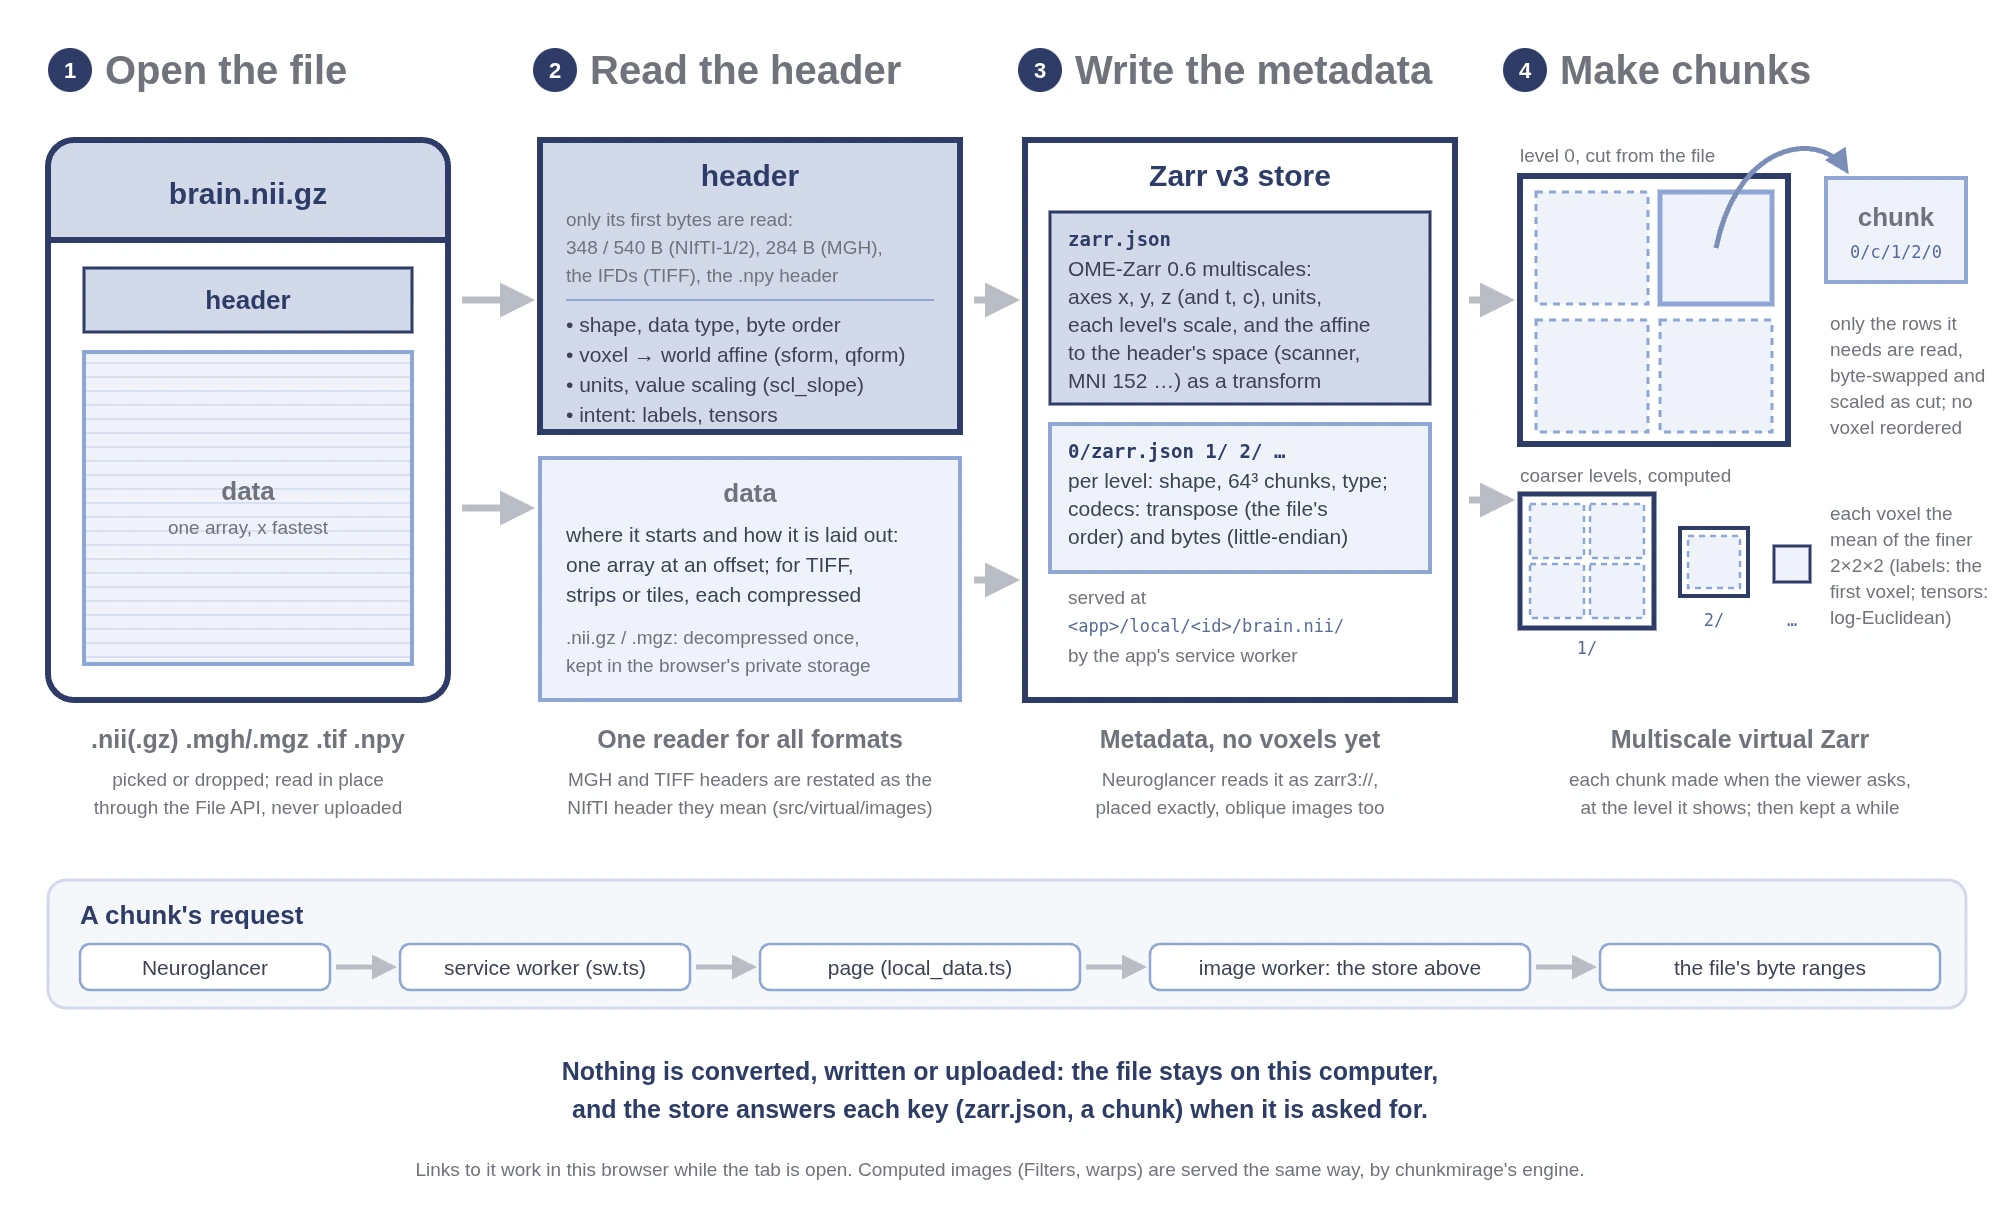
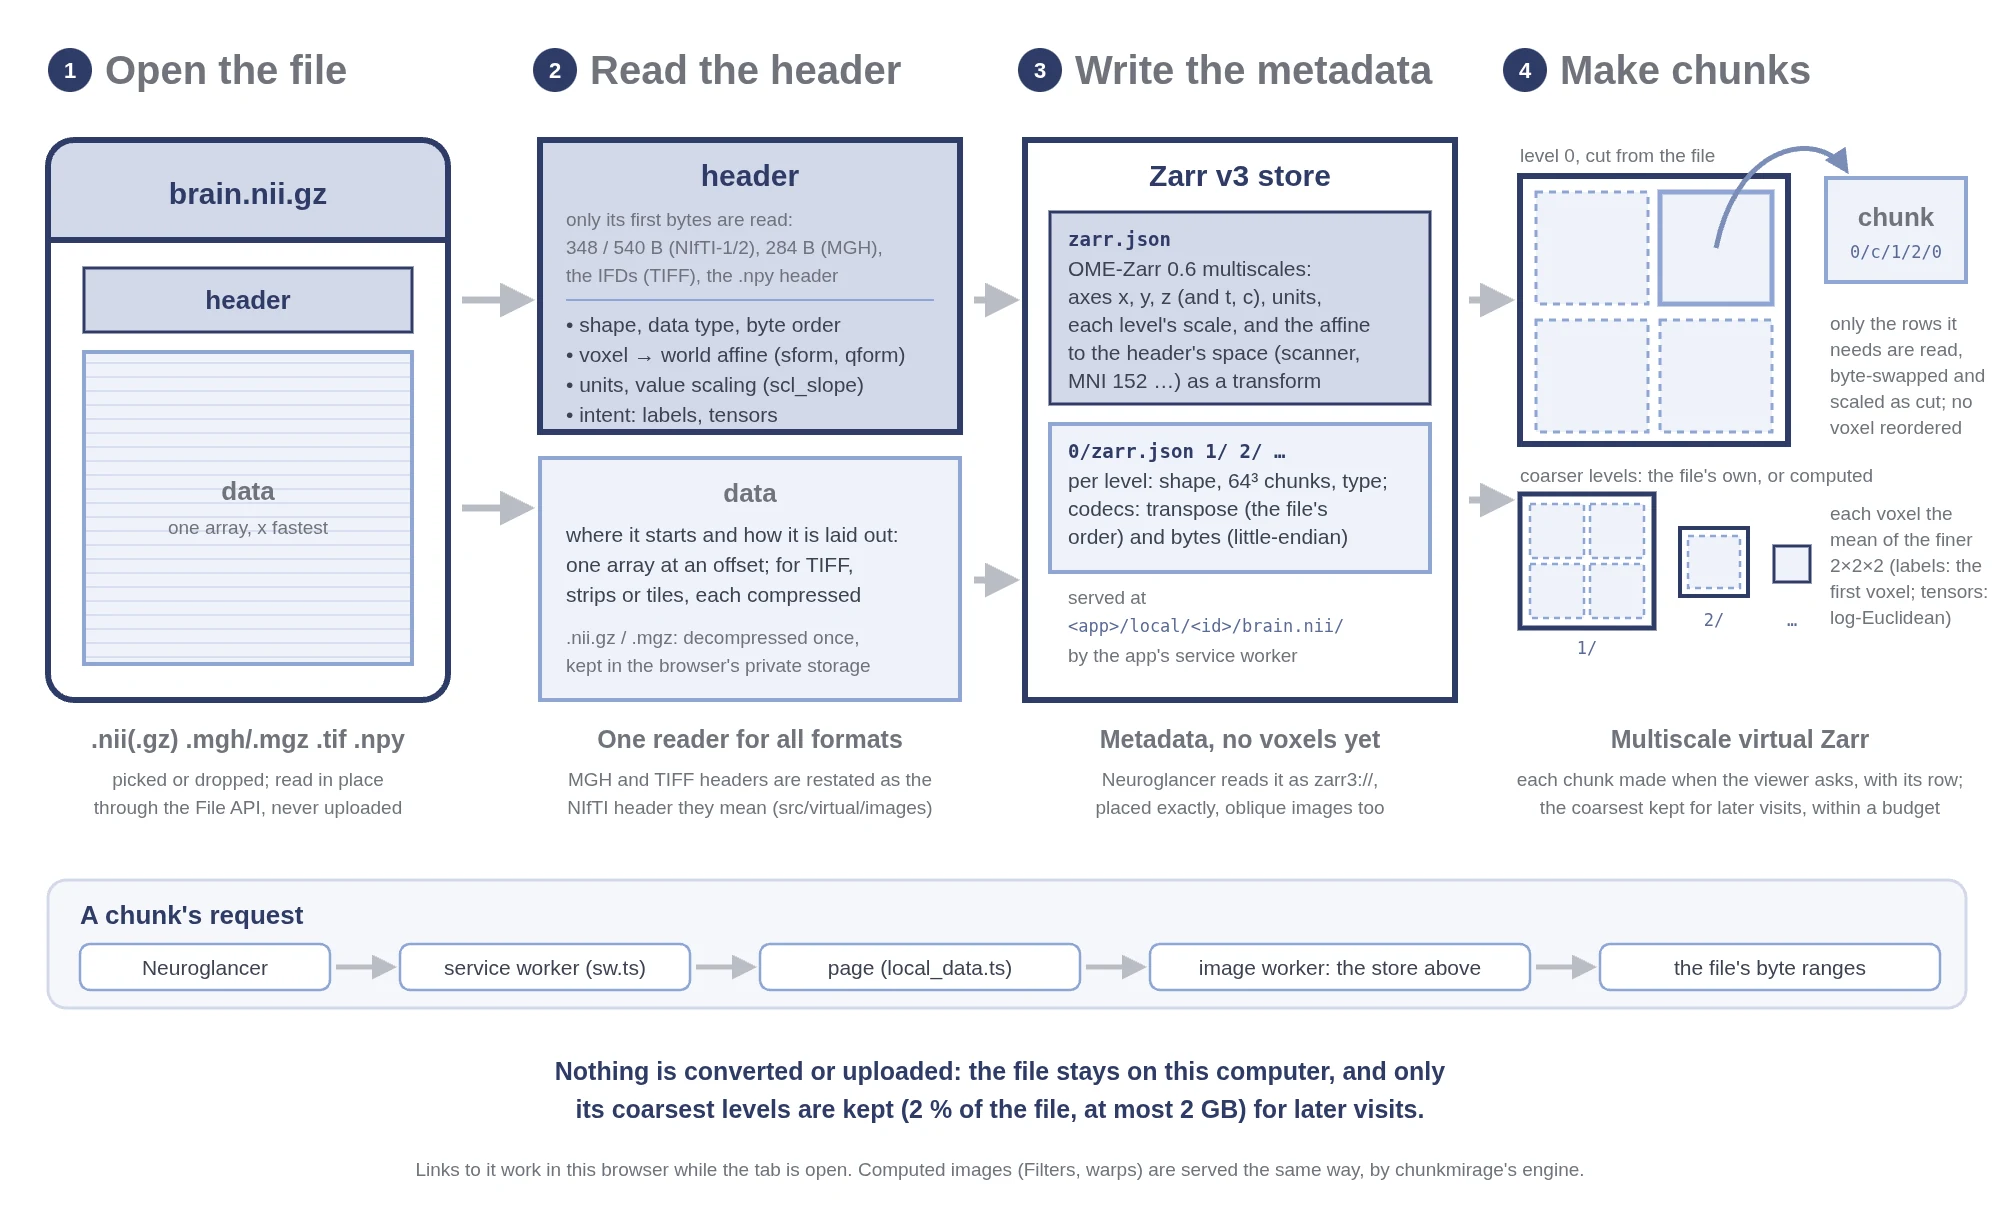
Docs: large images' overviews (slabs, the budgeted cache, the build, a TIFF's own pyramid, one-pass export) and how the virtual store compares with tifffile, bioformats2raw, ngff-zarr, ome-zarr-py, kerchunk, VirtualiZarr, refkv, chunkmirage, Neuroglancer's LocalVolume and nibabel; the figure says wh

diff --git a/src/virtual/README.md b/src/virtual/README.md
@@ -9,7 +9,7 @@ to the page, and a worker here answers it from the file.
 | Folder / file | What |
 |---|---|
 | `local_data.ts` | Local files and folders: picking, remembering, the URLs under `<app>/local/<id>/`, answering the service worker, files made in the page (`openFile`, derived files) |
-| `images/` | Images as OME-Zarr 0.6: NIfTI and Analyze (`nifti.ts`), TIFF stacks (`tiff.ts`), the store and its pyramid (`store.ts`), the worker (`worker.ts`) |
+| `images/` | Images as OME-Zarr 0.6: NIfTI and Analyze (`nifti.ts`), TIFF stacks and their own pyramids (`tiff.ts`), the store and its pyramid (`store.ts`), levels made in slabs (`slabs.ts`), the overview cache (`overview_cache.ts`), the worker (`worker.ts`) |
 | `computed.ts` | Images computed as they are viewed by [chunkmirage](https://github.com/JaneliaSciComp/chunkmirage)'s browser engine (`vendor/chunkmirage`, a submodule): a pipeline of its ops over any image, served under `<app>/virtual/ngp/<pipeline>/` |
 | `warp.ts` | Images resampled through a smooth map as they are viewed, for `computed.ts`: a thin-plate spline from landmark pairs, or a displacement field between affines |
 | `vectors/` | Geometry as Zarr Vectors: tractograms (`trk.ts`, `tck.ts`, `trx.ts` → `streamlines.ts`), meshes and surfaces (`mesh_files.ts` → `meshes.ts`), SWC neurons and point tables (`point_files.ts` → `points.ts`), the formats (`formats.ts`) and the worker (`worker.ts`) |
@@ -59,13 +59,115 @@ Every store has coarser levels, so a view of the whole thing loads quickly:
 an image's pyramid (means of the finer level; the first voxel for labels),
 a tractogram's sample level (one streamline in ten).
 
+## Large images: levels made in slabs, and kept within a budget
+
+An image store (`images/nifti.ts`, which also serves TIFF, MGH and NumPy
+through a NIfTI header) serves level 0 straight from the file and makes
+each coarser level from the one below it. For a file of hundreds of GB
+this decides whether a zoomed-out view takes a minute or an hour, and how
+much disk the app takes, so it works as follows.
+
+**Slabs** (`images/slabs.ts`). A slab of a level is one row of its chunks:
+the chunk depth of z planes, the chunk height of rows, and the whole width
+(cut along x into pieces of whole chunks when one slab would exceed
+256 MB). A chunk of a coarser level is never made alone: the whole slab
+holding it is made from the finer level's slabs under it, one at a time,
+down to level 0, whose slabs are rows of the file. Strips and rows are read
+across the whole width anyway, so each byte of the file is read once for
+every level above it, and memory holds about one slab per level (a few
+hundred MB for a 4096-pixel-wide image). The other chunks of the slab stay
+in memory for the requests that follow. Before this, each coarse chunk was
+made from its eight finer chunks recursively. Their rows did not fit the
+64 MB cache of rows, so the first zoomed-out view of a 16 GB TIFF read
+the file many times over (measured below).
+
+**The overview cache** (`images/overview_cache.ts`). A level-k chunk is the
+mean of 8^k level-0 chunks' worth of the file, so coarse levels cost the
+most to make again and the least to keep. Level 1 is an eighth of the file,
+level 2 a sixty-fourth. Coarse chunks are kept in the origin's private
+file system (OPFS), keyed by the file's name, size and date and by the
+level and chunk, within a budget:
+
+- the budget is set in **View settings → Overviews**: by default 2 % of the
+  file, at most 2 GB an image, at most 10 GB for all images, and never more
+  than half of what the browser's storage has free. A 1 TB TIFF keeps 2 GB,
+  a 16 GB one 330 MB. Files under 64 MB keep nothing (their levels are made
+  in a moment);
+- whole levels are kept coarsest first while they fit, then the next finer
+  level in part, its least recently used chunks dropped first. A finer chunk
+  never pushes out a coarser one. Finer levels are made again from the file
+  when they are viewed;
+- when the total for all images is passed, the least recently used images'
+  caches go first;
+- one worker writes an image's cache at a time (a Web Lock); another tab, or
+  the export worker, reads it as it stands;
+- Settings lists what each image keeps and clears it; the Datasets row menu
+  clears one image's cache.
+
+In-memory caches are sized from `navigator.deviceMemory`: chunks 32 MB per
+GB of device memory and rows 16 MB per GB, within bounds (256 MB and 128 MB
+on an 8 GB machine; Chrome reports 8 at most).
+
+**Building the overview** (`{ overview: "build" }`, a job in the Jobs tab
+with progress, which can be cancelled). One pass over level 0, slab by slab.
+Each coarser level is made from the slabs of the one below as they pass,
+and the levels the budget keeps are written into the cache. Memory stays at
+about one slab per level. Until it is done, chunks are made on request as
+above, and a cancelled build resumes from the levels already kept. The
+platform offers the build when an image of 1 GB or more is first viewed
+("Build the overview of this 16 GB image in the background? … about
+330 MB is kept"), and the Datasets row menu has it too (`src/ui/overview.ts`).
+
+**A TIFF's own pyramid** (`images/tiff.ts`). Each page's SubIFDs (pyramidal
+OME-TIFF, as raw2ometiff, tifffile and QuPath write it), or reduced pages
+following each page (NewSubfileType 1), are read as levels: x and y halved
+(or quartered), z kept. They are decoded like level 0 and not computed or
+cached. Coarser levels past the file's own are made from the coarsest one.
+A lone thumbnail, or reduced pages not lined up with every plane, are
+skipped. JPEG-compressed levels are skipped too, since JPEG is not decoded.
+
+**Export → OME-Zarr, every level** (`out/export_worker.ts`, `eachChunk` in
+`images/nifti.ts`). The export worker writes into the chosen folder itself,
+in the same one pass: each level-0 slab as it is read, each coarser slab as
+it is made, every chunk gzipped, chunks of zeros left out. So no level is
+made twice, and memory stays at a few slabs. The export makes every level
+from the file, even those the cache holds, because the levels below them
+are wanted too. The coarse levels it makes are kept in the cache when the
+export worker holds it.
+
+### How this compares with existing packages
+
+| Package | What it does | Like ngplatform | Unlike ngplatform |
+|---|---|---|---|
+| tifffile's `TiffFile.aszarr()` (`ZarrTiffStore`) | A TIFF series as a Zarr store, read in place: each page's strips or tiles are its chunks, decoded when read; a pyramidal series (SubIFDs, OME levels) is a multiscale group of the file's own levels | Reads the file in place; serves the file's own pyramid as levels, found the same way (SubIFDs, reduced pages) | Its chunks are the TIFF's own strips or tiles, so a stack of one-row strips gives chunks one row high; ngplatform cuts 64³ chunks from rows. It computes no levels: a TIFF without a pyramid has one level |
+| bioformats2raw → raw2ometiff (Glencoe) | Converts anything Bio-Formats reads into an OME-Zarr pyramid on disk (level 0 copied, levels downsampled in x and y), then into a pyramidal OME-TIFF | The same pyramid in the end, means of 2 × 2 blocks | A full copy plus its levels is written before anything is viewed, and the conversion reads the whole file. ngplatform writes nothing until asked, then at most the budget. Export → OME-Zarr is ngplatform's conversion, and it too reads the file once |
+| ngff-zarr, ome-zarr-py | Write OME-Zarr multiscales from arrays (ngff-zarr: ITK Gaussian or bin-shrink, Dask, larger-than-memory with intermediate levels kept on disk; ome-zarr-py: its `Scaler`, x and y by default) | Same metadata (OME-Zarr), levels by halving | Conversion libraries: every level is written in full. ngplatform halves z too where voxels are near-isotropic, and averages plainly (no Gaussian) |
+| kerchunk, VirtualiZarr, refkv | References: Zarr chunk keys mapped to byte ranges of the original files (HDF5, netCDF, TIFF, …), so the files are read as Zarr without a copy | Nothing copied; the original bytes are read on demand (ngplatform reads refkv archives directly, `refkv/`) | Only the file's own chunks and levels exist: no downsampling, so a file without a pyramid has no coarse view. ngplatform adds computed levels |
+| chunkmirage (`vendor/chunkmirage`, `computed.ts`) | A pipeline of ops whose chunks are computed when asked for, at the level shown, each stage's chunks cached in memory (2 GB LRU); a disk cache is on its roadmap | Chunks made on request, coarse levels from finer data, a bounded cache | Its cache is per process, in memory, and kept for any stage. ngplatform's overview cache persists between visits on disk, keeps only coarse levels, coarsest first, and has a per-file budget |
+| Neuroglancer's Python `LocalVolume` (on-the-fly downsampling); Igneous and tinybrain (precomputed pyramids) | `LocalVolume` serves an in-memory or memory-mapped array to Neuroglancer, each downsampled chunk computed when requested from the full array; Igneous downsample tasks make several mips from one region read once (tinybrain) | Computed on request like `LocalVolume`. A slab making every level above it on the way is Igneous's several-mips-per-task idea | `LocalVolume` keeps nothing, so each coarse request reads its whole footprint again. Igneous writes every mip in full |
+| nibabel's array proxies (`img.dataobj`) | Reads only the slices asked for from the file (memory-mapped or by seeking), applying the scaling; `.nii.gz` needs decompressing from the start (indexed_gzip adds seek points) | Same in-place reading of level 0, scaling applied as read | No levels at all. ngplatform decompresses a `.nii.gz` once into OPFS (`gunzipSource`) instead of indexing it |
+
+In short: like tifffile, kerchunk and nibabel, ngplatform reads the file
+where it is, and like tifffile it uses the file's own pyramid. Unlike them,
+it computes the levels a file lacks, as the converters do, but only when
+they are viewed or the overview is built. It keeps only what the budget
+allows, coarsest first, so a 1 TB TIFF costs a few GB of disk instead of a
+converted copy. An OME-Zarr made once (Export) is still faster to view
+than any of this.
+
+Measured on a 16 GB uint16 BigTIFF (4096 × 4096 × 512, uncompressed
+strips, in memory: `/dev/shm`) and the 512 MB stress TIFF, headless Chrome
+on this machine: see the commit that added this section for the numbers.
+
 ## Reading out
 
-Writers for saving data on this computer live beside the readers: today
-NIfTI (`images/` and the Registration plugin's `volume_io.ts`) and TrackVis
-`.trk` (Track filtering). An **Export as** for every local dataset, and
-writing large data chunk by chunk into a folder, are on the work plan
-(`TODO.md`, A5).
+Writers for saving data on this computer live beside the readers: NIfTI
+(`.nii`, `.nii.gz`), FreeSurfer (`.mgh`, `.mgz`) and OME-Zarr for images
+(`out/volume.ts`, written by `out/export_worker.ts`), TrackVis `.trk` and
+MRtrix `.tck` for tractograms, OBJ, PLY and STL for meshes, CSV and GraphML
+(`out/vectors.ts`). Datasets → a row's ⋯ → **Export as…** reaches them
+(`src/ui/export.ts`). An image's every level is written into a folder
+chunk by chunk (above).
 
 ## Files made in the page
 

diff --git a/docs/guide/data.md b/docs/guide/data.md
@@ -31,7 +31,7 @@ is never loaded whole and coarser levels appear first.
 | You open | It is shown as | Notes |
 |---|---|---|
 | NIfTI (`.nii`, `.nii.gz`), Analyze (`.hdr` + `.img`), FreeSurfer (`.mgz`, `.mgh`) | a virtual OME-Zarr image, with a pyramid | Placed by the sform (else qform). A `.nii.gz` is decompressed once and kept in the browser's private storage for later visits. Colour (RGB) NIfTI shows in colour. |
-| TIFF stacks (`.tif`, `.tiff`), OME-TIFF, ImageJ hyperstacks | a virtual OME-Zarr image, with a pyramid | Classic and BigTIFF; LZW, deflate and PackBits, with either predictor; channels and time points from OME and ImageJ metadata; RGB(A) of 8 or 16 bits a sample shown in colour (16-bit by its top 8 bits). |
+| TIFF stacks (`.tif`, `.tiff`), OME-TIFF, ImageJ hyperstacks | a virtual OME-Zarr image, with a pyramid (the file's own, where it has one) | Classic and BigTIFF; LZW, deflate and PackBits, with either predictor; channels and time points from OME and ImageJ metadata; RGB(A) of 8 or 16 bits a sample shown in colour (16-bit by its top 8 bits). |
 | refkv vzip archives (`.vzip`), opened with the files they reference (the folder that holds both, or both dropped together) | the archive's own Zarr hierarchy | A Zarr hierarchy whose chunks reference byte ranges of other files (TIFF, CZI, ND2, HDF5 … zarrified by [refkv](https://github.com/d-v-b/refkv)). References to local files are found beside the archive by name; http(s) ones are read with range requests. Codecs Neuroglancer does not read (refkv's TIFF deflate and LZW, the TIFF predictor) are decoded on the fly; JPEG and JPEG 2000 chunks are not read yet. Format version 0, as refkv 0.2.0 writes it. |
 | NumPy arrays (`.npy`, 2-D to 4-D) | a virtual OME-Zarr image, with a pyramid | Indexed [z, y, x] as Python imaging code does (the last axis is x); 1-unit voxels. |
 | A FreeSurfer subject folder (with `mri/` and `surf/`) | its T1, aparc+aseg and white and pial surfaces | Surfaces in Freeview's colours, drawn as outlines on the slices. |
@@ -46,6 +46,31 @@ Chrome and Edge remember local files between visits (you are asked to allow
 reading them again); links to them work in the same browser while the tab
 is open.
 
+### Large images: overviews
+
+A large TIFF or NIfTI is shown without converting it. Its coarser levels
+are made when a zoomed-out view asks for them, reading the file once
+across. A pyramid the file already holds (a pyramidal OME-TIFF's SubIFDs,
+or reduced-resolution pages) is read as it is, not made again.
+
+- **Kept between visits, within a budget.** The coarsest levels are kept in
+  the browser's private storage: 2 % of the file by default, at most 2 GB
+  an image and 10 GB in all. A 1 TB TIFF keeps 2 GB, a 16 GB one about
+  330 MB. Coarse levels cost the most to make again and the least to keep,
+  so they are kept first. Finer levels are made again from the file when
+  you zoom in. Files under 64 MB keep nothing.
+- **Building the overview.** When an image of 1 GB or more is first shown,
+  you are offered **Build the overview in the background**. It reads the file
+  once and keeps what the budget allows, and it appears in the Jobs tab with
+  its progress (you can cancel it). It is also in Datasets → the row's ⋯,
+  beside **Clear its kept overview**.
+- **Settings.** **View settings → Overviews of large images** sets the
+  budget, lists what each image keeps, and clears it.
+
+Converting to OME-Zarr (Export, below) is still the fastest to view. An
+overview is for looking at a TIFF straight away, without waiting for a
+conversion or making a full copy.
+
 !!! note "Coming"
     Stepping through a CIFTI time series is on the
     [work plan](https://github.com/AllenInstitute/ngplatform/blob/main/TODO.md).
@@ -56,7 +81,7 @@ What can be saved today, and where:
 
 | What | How | Format |
 |---|---|---|
-| A local image | Datasets → the row's ⋯ → **Export as…** | NIfTI (`.nii.gz`, `.nii`), FreeSurfer (`.mgz`, `.mgh`) or an OME-Zarr folder: the whole image at full resolution or a coarser level (up to 2 GB), or a box of 256 voxels a side around the position at any level; or, at any size, every level written into a folder chunk by chunk as OME-Zarr (gzip-compressed; in browsers that can write folders, such as Chrome and Edge) |
+| A local image | Datasets → the row's ⋯ → **Export as…** | NIfTI (`.nii.gz`, `.nii`), FreeSurfer (`.mgz`, `.mgh`) or an OME-Zarr folder: the whole image at full resolution or a coarser level (up to 2 GB), or a box of 256 voxels a side around the position at any level; or, at any size, every level written into a folder chunk by chunk as OME-Zarr in one pass over the file (gzip-compressed; in browsers that can write folders, such as Chrome and Edge) |
 | A local tractogram | the same | TrackVis `.trk` or MRtrix `.tck` |
 | A local mesh or surface | the same | OBJ, PLY, STL, or its vertices as CSV |
 | A local point table or SWC | the same | CSV |
